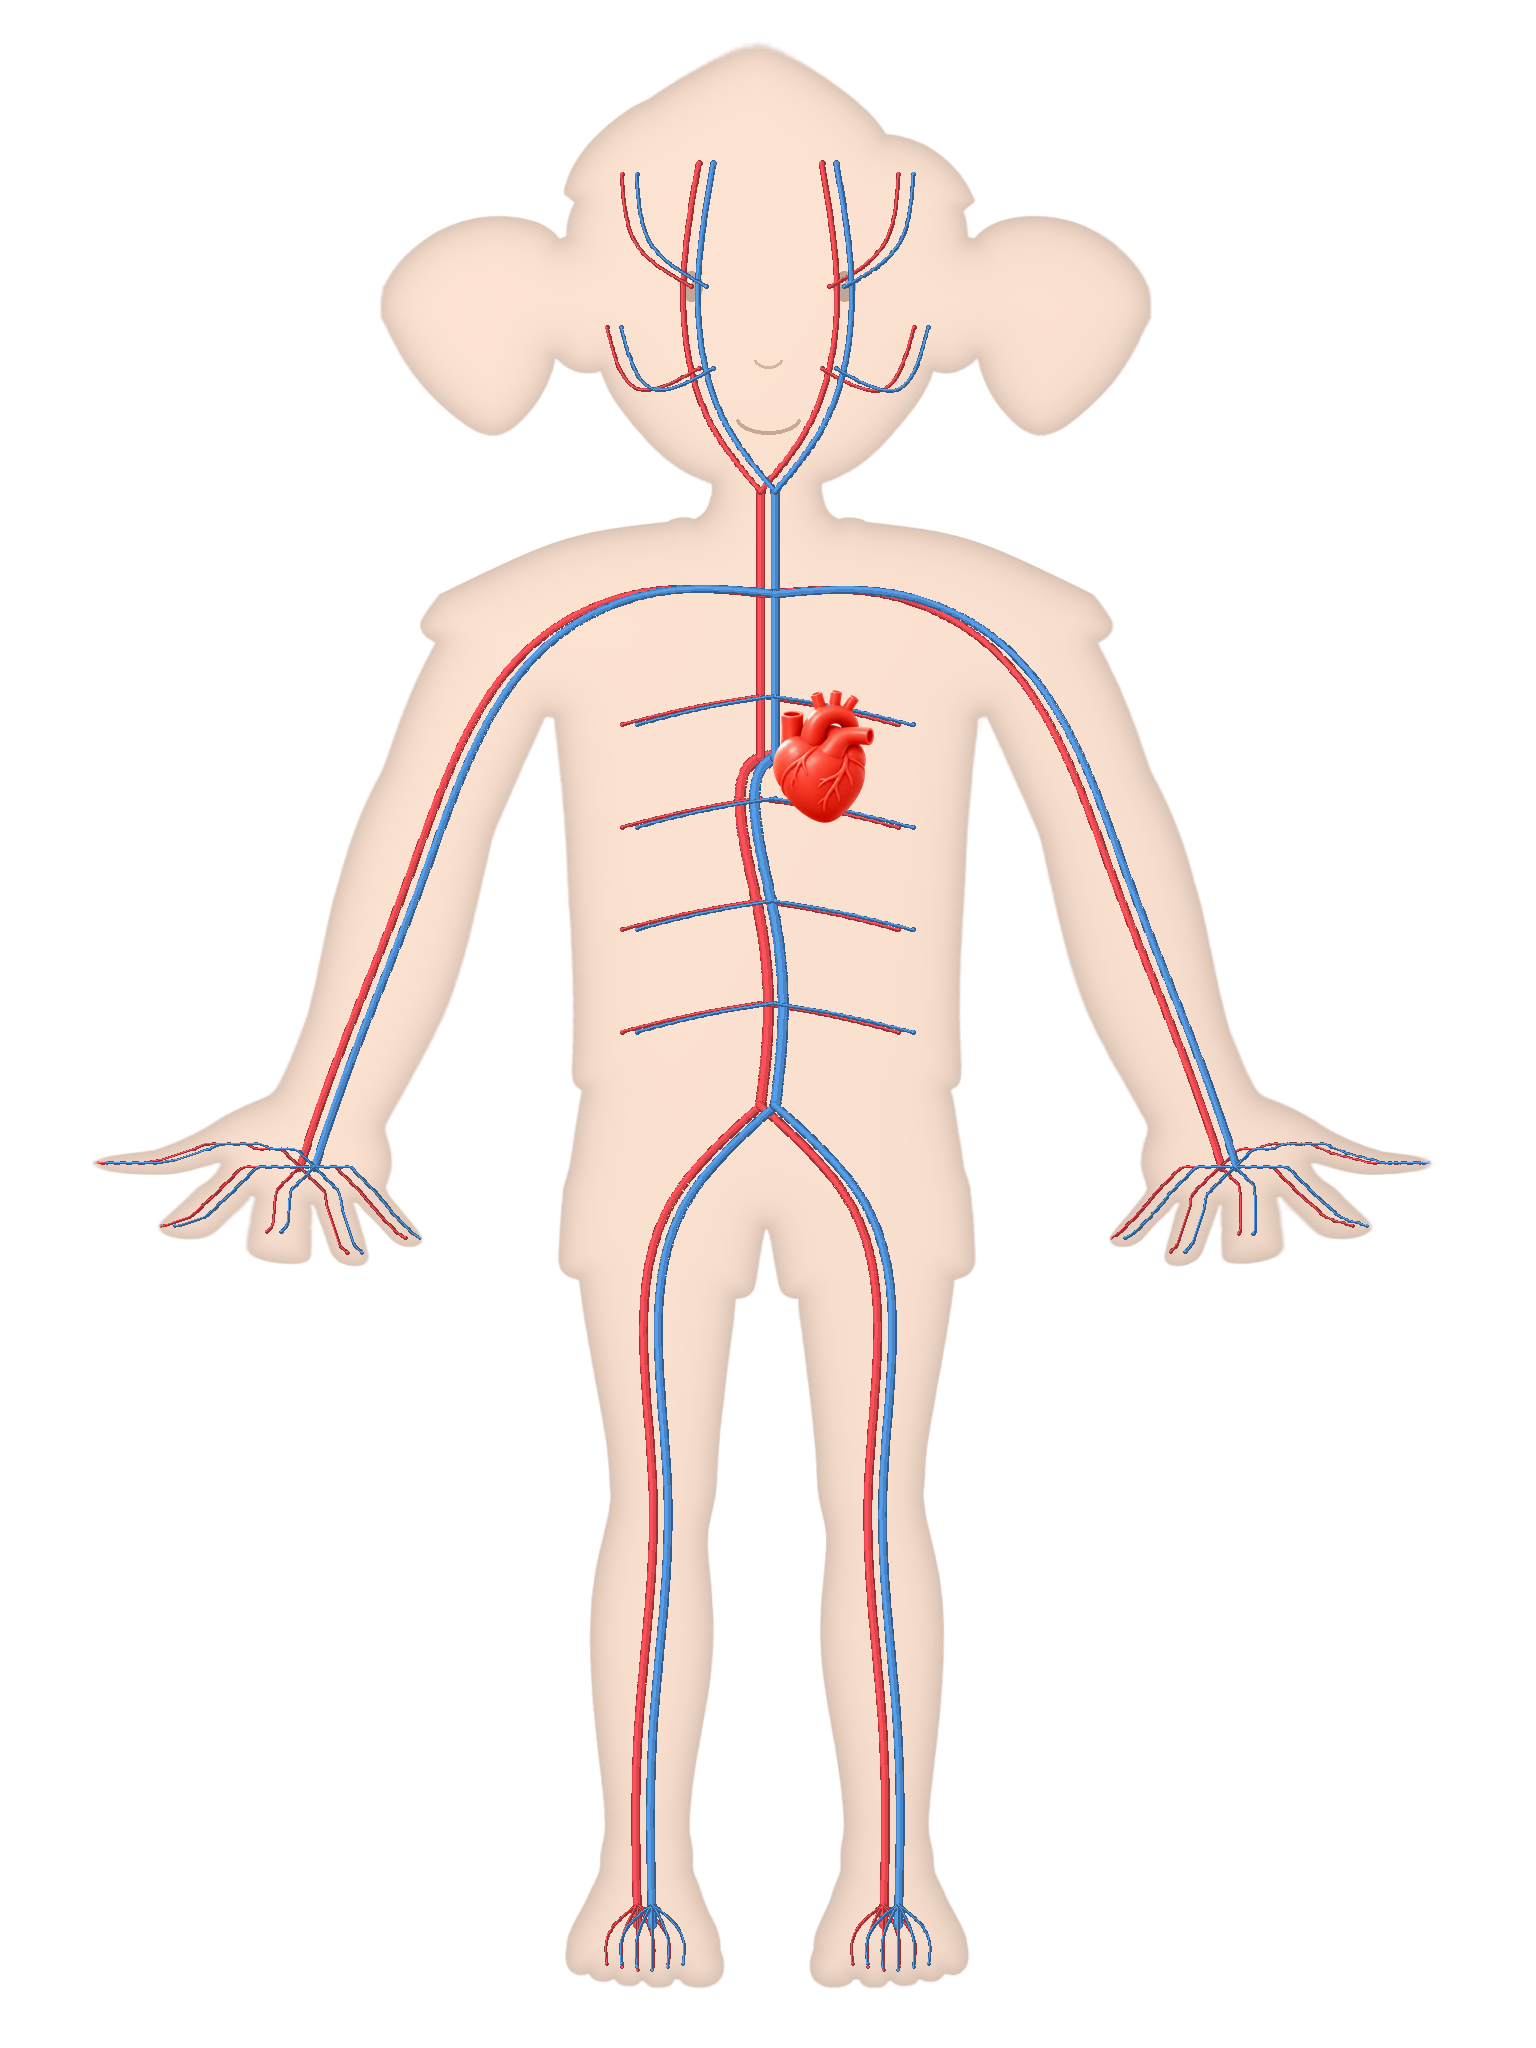
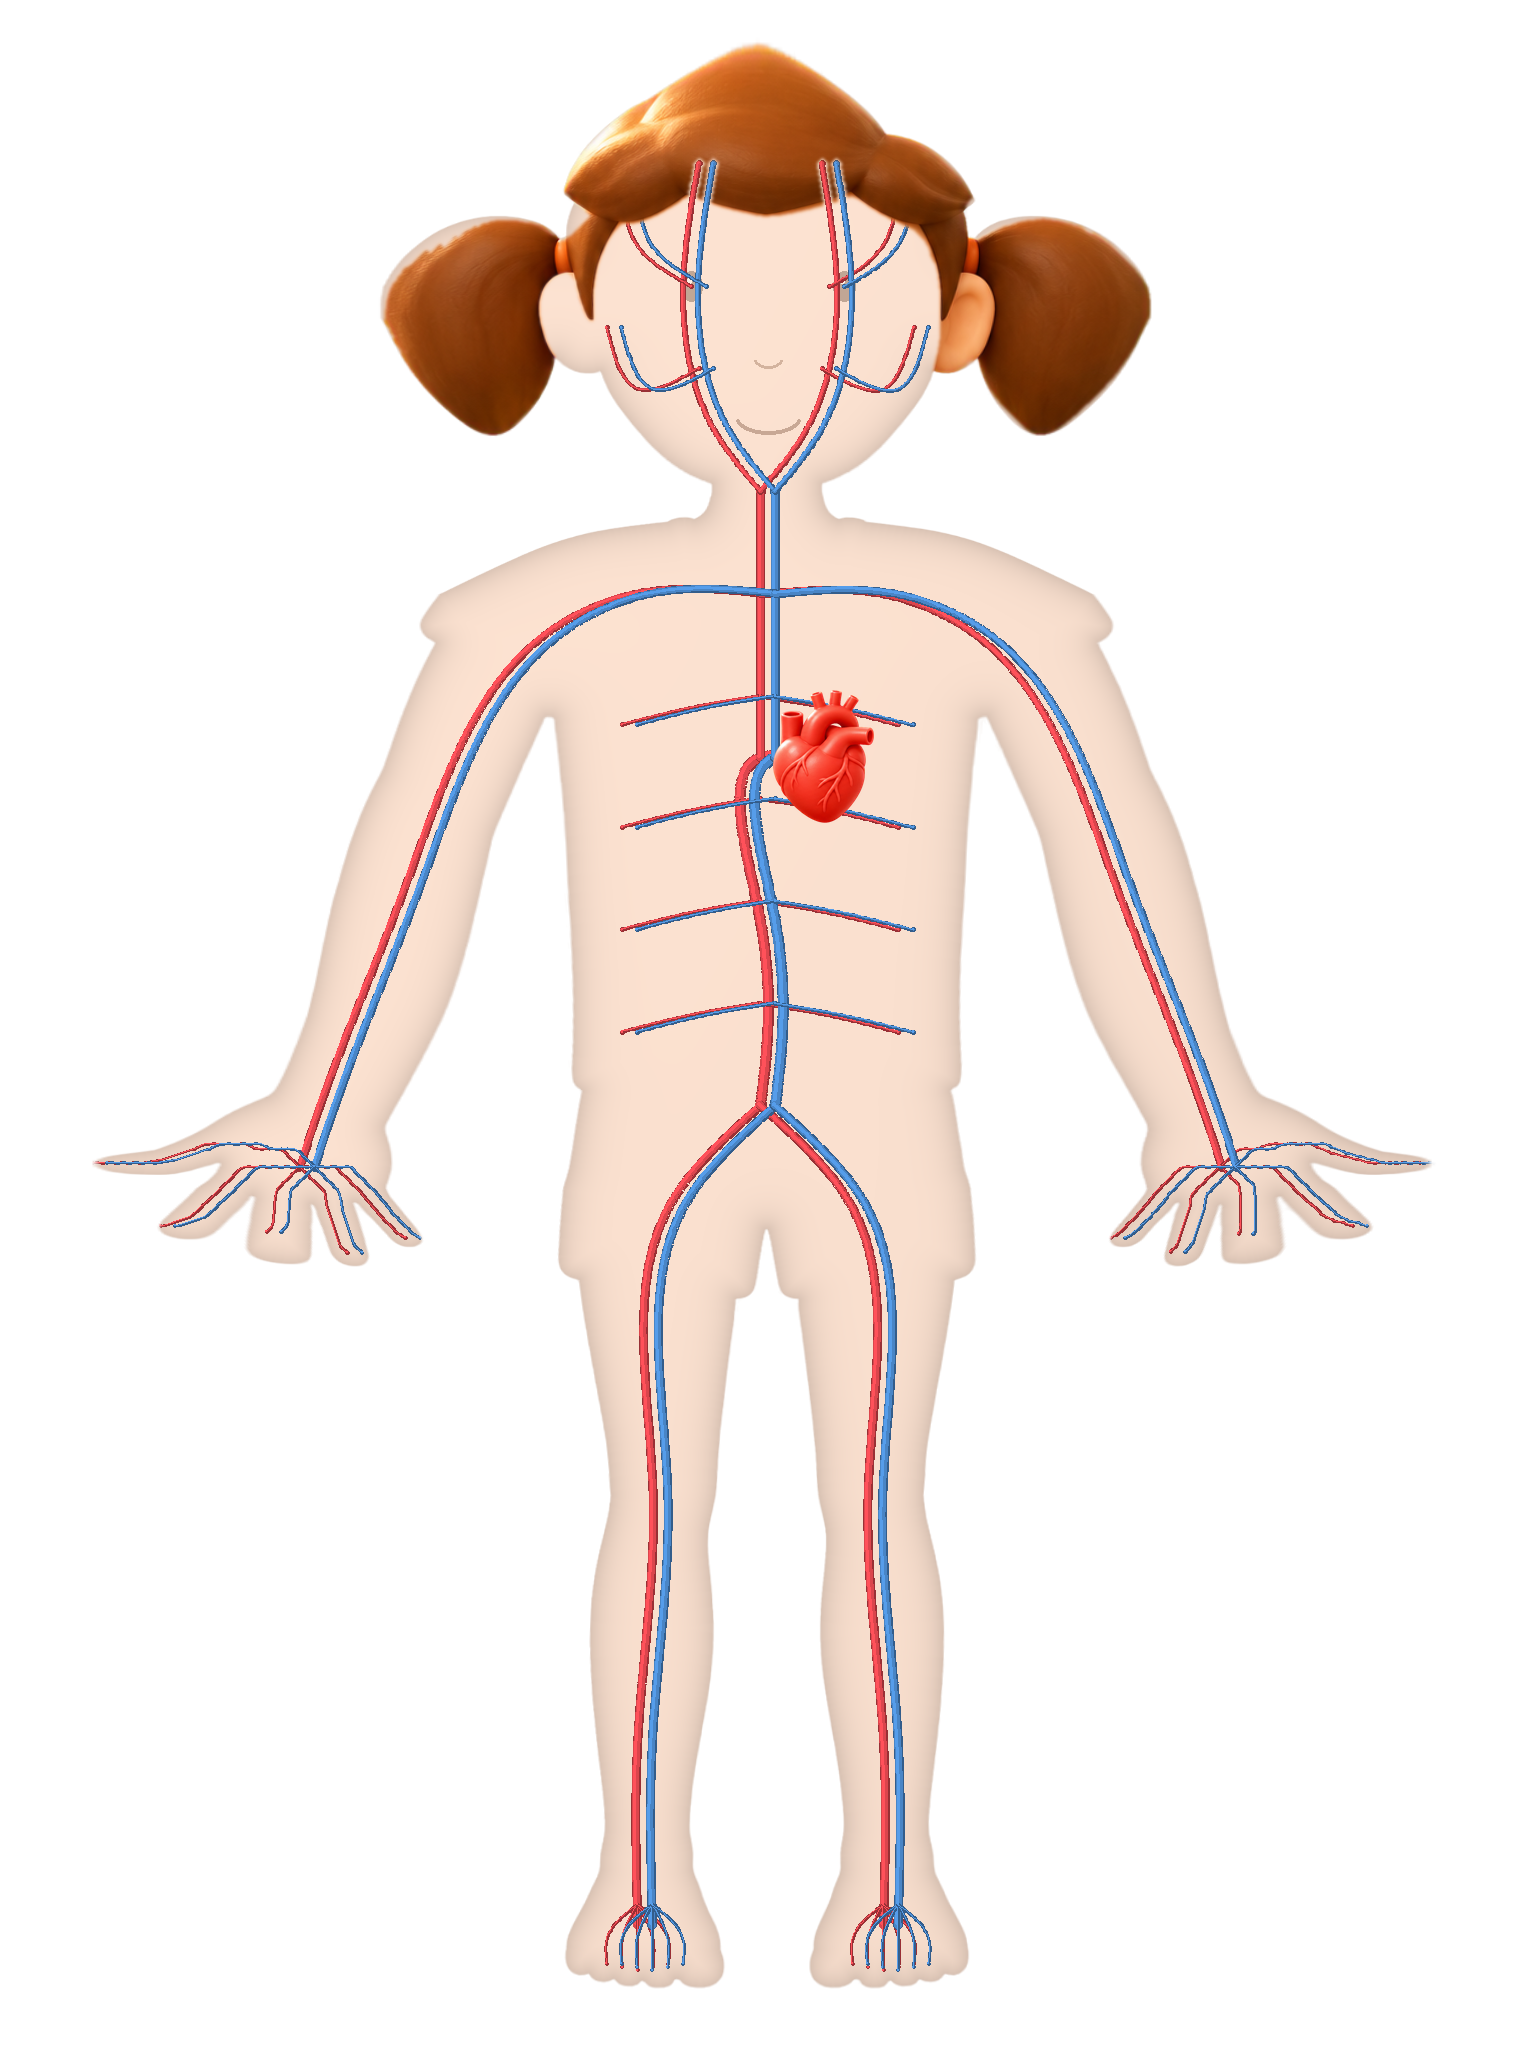
Mein Körper: echte Haare auf den Innen-Ebenen statt hautfarbener Zöpfe [skip ci]
Claude-Session: https://claude.ai/code/session_01BcXaihLCw7pC1xrHupJZB2

Changed region(s): [[0.25, 0.0, 0.75, 0.2188]]

diff --git a/tools/koerper_haare.py b/tools/koerper_haare.py
@@ -1,0 +1,41 @@
+# Setzt die Haare aus koerper_aussen auf die Innen-Ebenen (Organe, Knochen, Adern, Muskeln, Umriss),
+# damit die Zöpfe nicht als hautfarbene Flächen erscheinen. Aufruf: python3 tools/koerper_haare.py <Original-Ordner> <Ziel-Ordner>
+# Braucht numpy, pillow und scipy. Nur auf Hermes-Originale anwenden (nicht zweimal).
+import sys, numpy as np
+from PIL import Image, ImageFilter
+from scipy import ndimage as nd
+src, outdir = sys.argv[1], sys.argv[2]
+a = Image.open(src + "/koerper_aussen.png").convert("RGBA")
+A = np.array(a).astype(float)
+hsv = np.array(a.convert("RGB").convert("HSV")).astype(float) / 255
+h, s, v = hsv[..., 0] * 360, hsv[..., 1], hsv[..., 2]
+H, W = h.shape
+yy = np.repeat((np.arange(H) / H)[:, None], W, 1)
+m = (h > 5) & (h < 42) & (s > 0.38) & (v < 0.85) & (A[..., 3] > 128) & (yy < 0.27)
+m = nd.binary_closing(m, iterations=2)
+lab, n = nd.label(m)
+sizes = nd.sum(m, lab, range(1, n + 1))
+hair = np.isin(lab, [i + 1 for i, sz in enumerate(sizes) if sz > 6000])
+hair |= (A[..., 3] > 20) & (yy < 0.095)          # Scheitel ganz oben ist immer Haar
+hair = nd.binary_fill_holes(nd.binary_closing(hair, iterations=8))
+hair &= A[..., 3] > 20
+xx = np.repeat((np.arange(W) / W)[None, :], H, 0)
+for name in ["organe", "knochen", "adern", "muskeln", "umriss"]:
+    Li = Image.open(f"{src}/koerper_{name}.png").convert("RGBA")
+    L = np.array(Li).astype(float)
+    # Grundfarbe der leeren Silhouette (Mitte des linken Zopfs)
+    base = L[int(0.15 * H), int(0.31 * W), :3]
+    plain = (np.abs(L[..., :3] - base).sum(-1) < 45) & (L[..., 3] > 20)
+    plain = nd.binary_opening(plain, iterations=2)
+    plain = nd.binary_dilation(plain, iterations=14) & (L[..., 3] > 0)   # heller Rand der Silhouette gehört dazu
+    content = (~(np.abs(L[..., :3] - base).sum(-1) < 45)) & (L[..., 3] > 200)
+    content = nd.binary_opening(content, iterations=3)
+    if name == 'knochen': content &= yy > 0.12
+    plain &= ~nd.binary_dilation(content & (yy > 0.02) & ~nd.binary_dilation((L[..., 3] < 200), iterations=18), iterations=2)
+    if name == 'knochen': plain |= yy < 0.12
+    m2 = hair & plain
+    mask = Image.fromarray((m2 * 255).astype("uint8")).filter(ImageFilter.GaussianBlur(1.5))
+    M = np.array(mask).astype(float)[..., None] / 255
+    out = L * (1 - M) + A * M
+    Image.fromarray(out.clip(0, 255).astype("uint8"), "RGBA").save(f"{outdir}/koerper_{name}.png")
+    print(name, base.astype(int))
